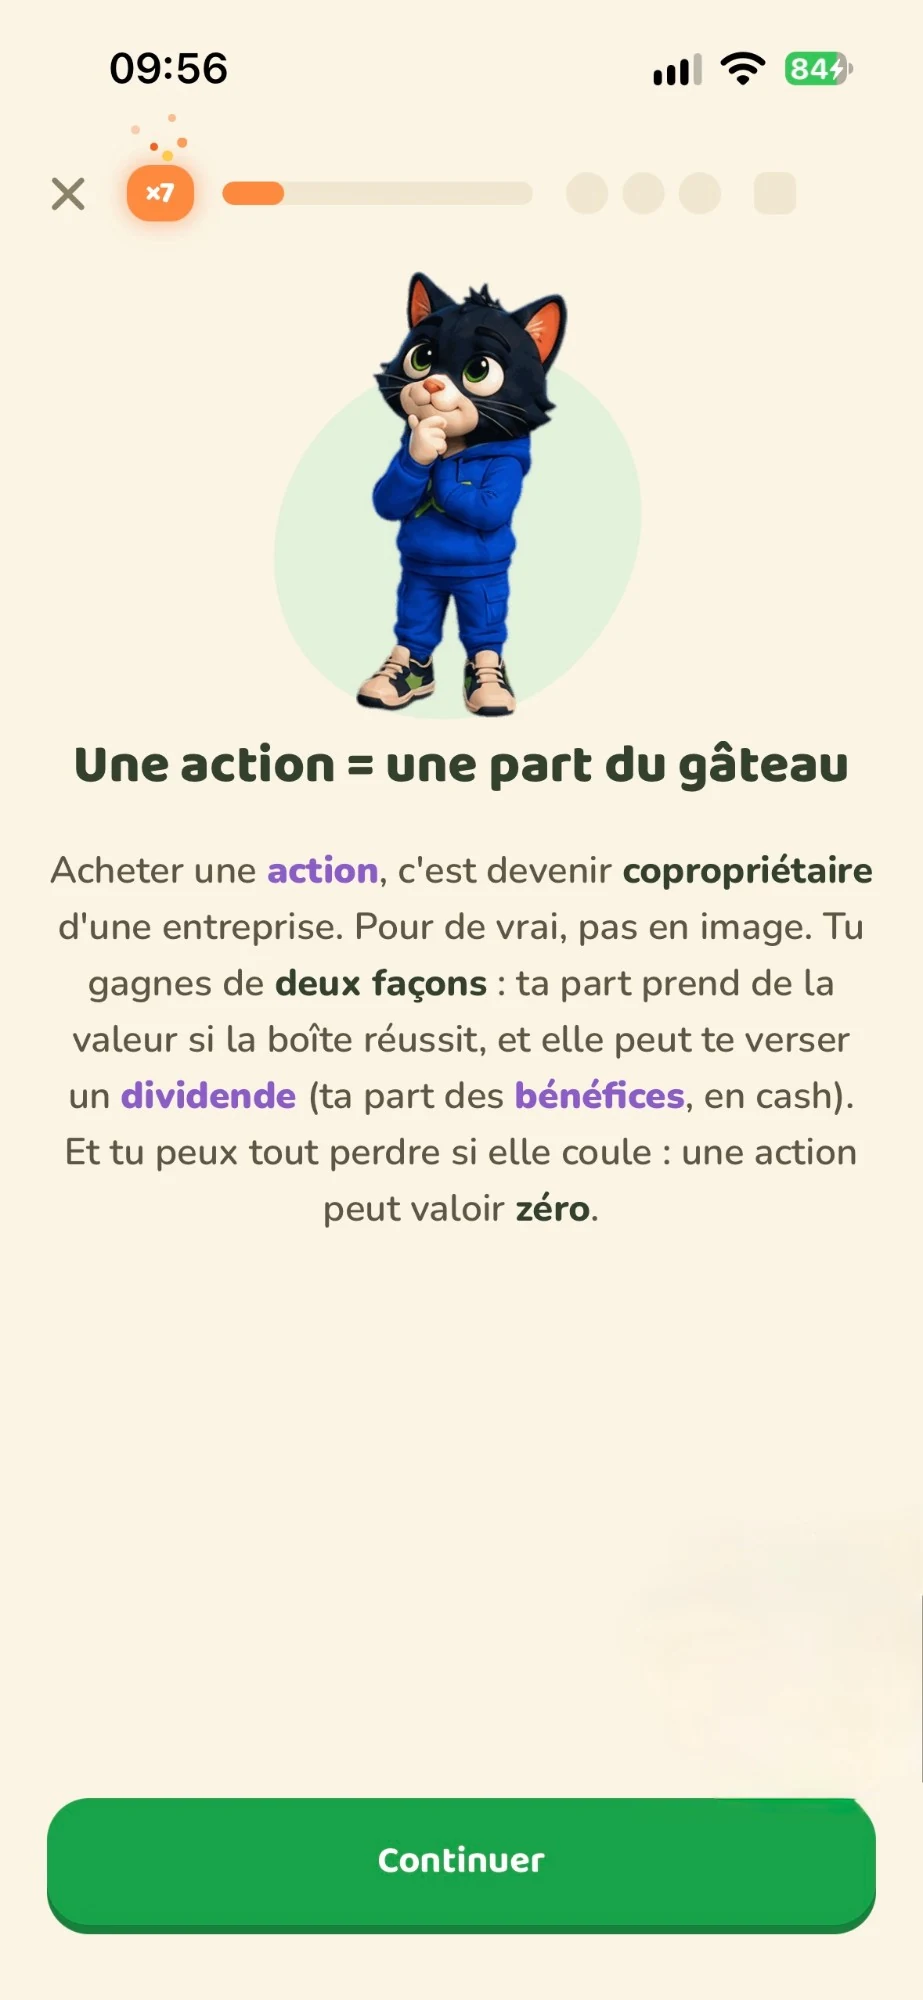
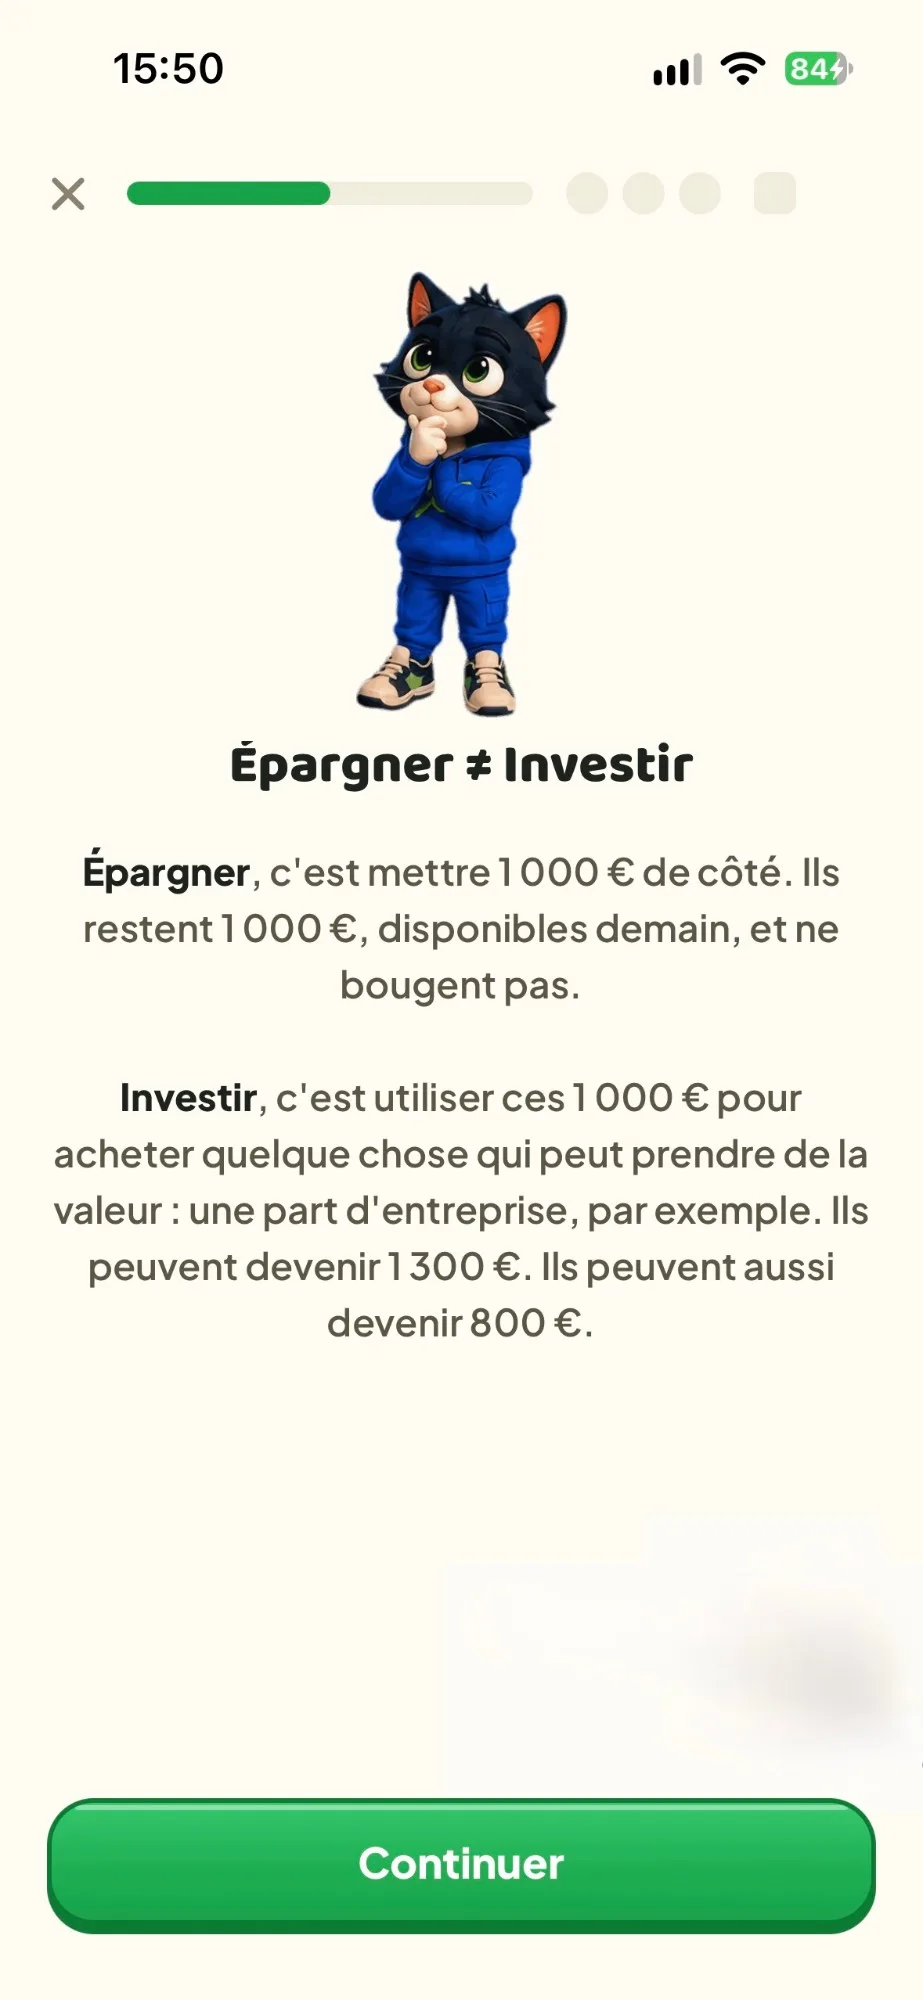
Site à jour avec l'app (4 oct.) : leçon en 4 étapes, nouvelles captures, parcours 33 leçons, ETF, Premium, pattes, coffre, Bezos et Jordan

diff --git a/index.html b/index.html
@@ -325,7 +325,7 @@ section{position:relative}
 .pricing{display:grid;grid-template-columns:1fr 1.25fr;gap:20px;margin-top:56px;align-items:stretch}
 .plan{border-radius:28px;padding:clamp(24px,3vw,36px);background:var(--card);border:1.5px solid #EFE4CB;box-shadow:0 6px 0 var(--edge);display:flex;flex-direction:column}
 .plan h3{font-size:34px}
-.plan .price{font-family:var(--display);font-weight:800;font-size:58px;line-height:1;margin-top:10px;font-variant-numeric:tabular-nums}
+.plan .price{font-family:var(--display);font-weight:800;font-size:58px;line-height:1;margin-top:10px;font-variant-numeric:tabular-nums;white-space:nowrap}
 .plan .price small{font-size:20px;color:var(--muted);font-weight:700}
 .plan ul{list-style:none;margin:22px 0 0;padding:0;display:grid;gap:10px}
 .plan li{display:flex;gap:10px;align-items:flex-start;font-size:16px}
@@ -422,8 +422,8 @@ footer .legal{flex-basis:100%;border-top:1px solid #214A32;padding-top:20px;font
 
     <div class="float" data-depth="1.4" data-speed="-0.5" style="left:4%;top:22%;width:clamp(46px,6vw,86px)"><img src="img/coin.webp" alt=""></div>
     <div class="float" data-depth="0.8" data-speed="-0.25" style="left:13%;top:62%;width:clamp(40px,4.6vw,66px)"><img src="img/star.webp" alt=""></div>
-    <div class="float" data-depth="1.1" data-speed="-0.6" style="right:5%;top:16%;width:clamp(60px,8vw,120px)"><img src="img/chest.webp" alt=""></div>
-    <div class="float" data-depth="0.6" data-speed="-0.35" style="right:14%;top:64%;width:clamp(44px,5.4vw,78px)"><img src="img/cup-or.webp" alt=""></div>
+    <div class="float" data-depth="1.1" data-speed="-0.6" style="right:5%;top:16%;width:clamp(60px,8vw,120px)"><img src="img/chest-epique.webp" alt=""></div>
+    <div class="float" data-depth="0.6" data-speed="-0.35" style="right:14%;top:64%;width:clamp(44px,5.4vw,78px)"><img src="img/paw-or.webp" alt=""></div>
     <div class="float" data-depth="1.7" data-speed="-0.7" style="left:30%;top:4%;width:clamp(30px,3.4vw,50px)"><img src="img/coin.webp" alt=""></div>
     <div class="float" data-depth="1.2" data-speed="-0.45" style="right:30%;top:2%;width:clamp(28px,3vw,44px)"><img src="img/star.webp" alt=""></div>
 
@@ -486,23 +486,21 @@ footer .legal{flex-basis:100%;border-top:1px solid #214A32;padding-top:20px;font
   <div class="lesson-inner">
     <div class="lesson-text">
       <div class="steps" id="steps">
-        <div class="step on"><span class="num">1 / 5</span><h3>Une notion. Cinq minutes.</h3><p>Chaque leçon attaque une seule idée, avec un exemple chiffré du début à la fin. Tu la finis dans le bus.</p></div>
-        <div class="step"><span class="num">2 / 5</span><h3>Tu devines avant de savoir.</h3><p>On te fait deviner le chiffre avant de le montrer. C'est l'écart avec ce que tu croyais qui te reste en tête.</p></div>
-        <div class="step"><span class="num">3 / 5</span><h3>Le quiz qui s'embrase.</h3><p>Enchaîne les bonnes réponses : à ×3, ton combo prend feu. Une erreur, et il retombe à zéro.</p></div>
-        <div class="step"><span class="num">4 / 5</span><h3>Un défi pour finir.</h3><p>Glisser, trier, relier : un mini-jeu pour vérifier que c'est vraiment acquis.</p></div>
-        <div class="step"><span class="num">5 / 5</span><h3>Et tu montes de niveau.</h3><p>XP, étoiles, pièces, trophées. Nesto garde la trace de tout ce que tu as compris.</p></div>
+        <div class="step on"><span class="num">1 / 4</span><h3>Une notion. Cinq minutes.</h3><p>Chaque leçon attaque une seule idée, avec un exemple chiffré du début à la fin. Tu la finis dans le bus.</p></div>
+        <div class="step"><span class="num">2 / 4</span><h3>Enchaîne les bonnes réponses.</h3><p>Trois questions sur ce que tu viens de lire. Chaque bonne réponse fait grimper ton combo, et une erreur le remet à zéro.</p></div>
+        <div class="step"><span class="num">3 / 4</span><h3>Un défi pour finir.</h3><p>Glisser, trier, relier : un mini-jeu pour vérifier que c'est vraiment acquis.</p></div>
+        <div class="step"><span class="num">4 / 4</span><h3>Et tu montes de niveau.</h3><p>XP, étoiles, pièces. Sur la route, des bonus à choisir. Nesto garde la trace de tout ce que tu as compris.</p></div>
       </div>
-      <div class="dots" id="dots" aria-hidden="true"><i class="on"></i><i></i><i></i><i></i><i></i></div>
+      <div class="dots" id="dots" aria-hidden="true"><i class="on"></i><i></i><i></i><i></i></div>
     </div>
 
     <div class="phone-wrap" id="phoneWrap">
       <div class="phone" id="phone">
         <div class="screen-area">
-          <img class="screen shot on" src="img/app-notion.webp" alt="Écran de leçon CRESKO : une action, une part du gâteau" width="923" height="2000">
-          <img class="screen shot" src="img/app-deviner.webp" alt="Écran CRESKO : carte à deviner sur l'inflation" width="923" height="2000" loading="lazy">
-          <img class="screen shot" src="img/app-quiz.webp" alt="Écran CRESKO : quiz avec le combo ×3" width="603" height="1311" loading="lazy">
+          <img class="screen shot on" src="img/app-notion.webp" alt="Écran de leçon CRESKO : épargner ou investir, avec 1 000 €" width="923" height="2000">
+          <img class="screen shot" src="img/app-quiz.webp" alt="Écran CRESKO : question du quiz, combo ×4" width="923" height="2000" loading="lazy">
           <img class="screen shot" src="img/app-defi.webp" alt="Écran CRESKO : le défi, glisser le bon mot dans chaque trou" width="923" height="2000" loading="lazy">
-          <img class="screen shot" src="img/app-fin.webp" alt="Écran CRESKO : fin de leçon, +80 XP" width="923" height="2000" loading="lazy">
+          <img class="screen shot" src="img/app-fin.webp" alt="Écran CRESKO : fin de leçon, +95 XP" width="923" height="2000" loading="lazy">
         </div>
       </div>
     </div>
@@ -523,7 +521,7 @@ footer .legal{flex-basis:100%;border-top:1px solid #214A32;padding-top:20px;font
       <article class="tile t-path" data-reveal>
         <span class="kicker">Le parcours</span>
         <h3>6 chapitres, de zéro à expert.</h3>
-        <p class="d">29 leçons dans l'ordre où tu en as besoin : d'abord comprendre, ensuite te défendre, puis passer à l'action.</p>
+        <p class="d">33 leçons dans l'ordre où tu en as besoin : d'abord comprendre, ensuite te défendre, puis passer à l'action.</p>
         <div class="path-box" id="pathBox">
           <svg viewBox="0 0 1000 300" preserveAspectRatio="xMidYMid meet" aria-hidden="true">
             <path id="trailBg" d="M40 210 C 150 210, 170 80, 230 80 S 330 220, 420 220 S 540 70, 610 70 S 720 230, 800 220 S 910 90, 960 90" fill="none" stroke="#C8E0BD" stroke-width="10" stroke-linecap="round" stroke-dasharray="2 22"/>
@@ -558,7 +556,7 @@ footer .legal{flex-basis:100%;border-top:1px solid #214A32;padding-top:20px;font
       <article class="tile t-market" data-reveal>
         <span class="kicker">Les marchés</span>
         <h3>Les vrais cours, zéro risque.</h3>
-        <p class="d">Suis les actions et les cryptos en direct, puis entraîne-toi avec un portefeuille virtuel : de l'argent fictif, de vraies décisions.</p>
+        <p class="d">Suis les actions et les ETF en direct, puis entraîne-toi avec un portefeuille virtuel : de l'argent fictif, de vraies décisions.</p>
         <div class="chart">
           <div class="chart-top"><span class="tk">Portefeuille virtuel</span><span class="live"><i></i>Cours réels</span></div>
           <svg viewBox="0 0 400 150" aria-hidden="true">
@@ -580,6 +578,8 @@ footer .legal{flex-basis:100%;border-top:1px solid #214A32;padding-top:20px;font
           <div class="lcard" style="background:#1A9A8E"><span class="lab">Légende</span><img class="lpic" src="img/leg-buffett.webp" alt="Warren Buffett, version dessinée de l'app"><div class="ltxt"><div class="nm">Warren Buffett</div><div class="hk">Sa première action, il l'achète à 11 ans.</div></div></div>
           <div class="lcard" style="background:#8B5CC9"><span class="lab">Légende</span><img class="lpic" src="img/leg-jobs.webp" alt="Steve Jobs, version dessinée de l'app"><div class="ltxt"><div class="nm">Steve Jobs</div><div class="hk">Viré de la boîte qu'il a fondée, puis revenu la sauver.</div></div></div>
           <div class="lcard" style="background:#2E86C1"><span class="lab">Légende</span><img class="lpic" src="img/leg-niel.webp" alt="Xavier Niel, version dessinée de l'app"><div class="ltxt"><div class="nm">Xavier Niel</div><div class="hk">Il lance Free, puis casse les prix du mobile en France.</div></div></div>
+          <div class="lcard" style="background:#12946A"><span class="lab">Légende</span><img class="lpic" src="img/leg-bezos.webp" alt="Jeff Bezos, version dessinée de l'app"><div class="ltxt"><div class="nm">Jeff Bezos</div><div class="hk">Son action a perdu 90 %. Il n'a rien changé.</div></div></div>
+          <div class="lcard" style="background:#D9573B"><span class="lab">Légende</span><img class="lpic" src="img/leg-jordan.webp" alt="Michael Jordan, version dessinée de l'app"><div class="ltxt"><div class="nm">Michael Jordan</div><div class="hk">Il a gagné plus après le basket que pendant.</div></div></div>
         </div>
         <p class="d" style="font-size:15px">Puis un Vrai ou Bluff pour voir si t'as suivi.</p>
       </article>
@@ -592,7 +592,7 @@ footer .legal{flex-basis:100%;border-top:1px solid #214A32;padding-top:20px;font
           <svg viewBox="0 0 24 24" aria-hidden="true"><path fill="#F97C50" d="M12.6 2.2c.4 3-1.2 4.6-2.6 6.1C8.6 9.8 7 11.4 7 14.3A5 5 0 0 0 12 19.5a5 5 0 0 0 5-5.2c0-1.7-.7-3-1.5-4 .1 1.3-.4 2.3-1.3 2.8.4-3.2-.5-7.5-1.6-10.9z"/><path fill="#FFC94A" d="M12 12.5c-1.3 1.2-2 2.2-2 3.4a2 2 0 0 0 4 0c0-1.2-.8-2.2-2-3.4z"/></svg>
           <span class="n" id="streakN">30</span><span class="u">jours<br>de série</span>
         </div>
-        <div class="cups" id="cups"><img src="img/cup-bronze.webp" alt="Trophée bronze"><img src="img/cup-argent.webp" alt="Trophée argent"><img src="img/cup-or.webp" alt="Trophée or"><img src="img/cup-diamant.webp" alt="Trophée diamant"></div>
+        <div class="cups" id="cups"><img src="img/paw-bronze.webp" alt="Trophée bronze"><img src="img/paw-argent.webp" alt="Trophée argent"><img src="img/paw-or.webp" alt="Trophée or"><img src="img/paw-diamant.webp" alt="Trophée diamant"></div>
         <p class="d" style="font-size:15px">Missions du jour, coffres, ligue du mois entre amis.</p>
       </article>
 
@@ -656,7 +656,7 @@ footer .legal{flex-basis:100%;border-top:1px solid #214A32;padding-top:20px;font
         <h3>Gratuit</h3>
         <div class="price">0 €</div>
         <ul>
-          <li><svg viewBox="0 0 24 24"><circle cx="12" cy="12" r="11" fill="#E4F1DC"/><path d="M7 12.5l3.2 3.2L17 9" fill="none" stroke="#16a34a" stroke-width="2.8" stroke-linecap="round" stroke-linejoin="round"/></svg>Les 23 leçons de base</li>
+          <li><svg viewBox="0 0 24 24"><circle cx="12" cy="12" r="11" fill="#E4F1DC"/><path d="M7 12.5l3.2 3.2L17 9" fill="none" stroke="#16a34a" stroke-width="2.8" stroke-linecap="round" stroke-linejoin="round"/></svg>Les 24 leçons de base</li>
           <li><svg viewBox="0 0 24 24"><circle cx="12" cy="12" r="11" fill="#E4F1DC"/><path d="M7 12.5l3.2 3.2L17 9" fill="none" stroke="#16a34a" stroke-width="2.8" stroke-linecap="round" stroke-linejoin="round"/></svg>1 leçon par jour</li>
           <li><svg viewBox="0 0 24 24"><circle cx="12" cy="12" r="11" fill="#E4F1DC"/><path d="M7 12.5l3.2 3.2L17 9" fill="none" stroke="#16a34a" stroke-width="2.8" stroke-linecap="round" stroke-linejoin="round"/></svg>Ta première Légende offerte</li>
           <li><svg viewBox="0 0 24 24"><circle cx="12" cy="12" r="11" fill="#E4F1DC"/><path d="M7 12.5l3.2 3.2L17 9" fill="none" stroke="#16a34a" stroke-width="2.8" stroke-linecap="round" stroke-linejoin="round"/></svg>Le Journal et le quiz du jour</li>
@@ -680,12 +680,14 @@ footer .legal{flex-basis:100%;border-top:1px solid #214A32;padding-top:20px;font
         <ul>
           <li><svg viewBox="0 0 24 24"><circle cx="12" cy="12" r="11" fill="#FFC94A"/><path d="M7 12.5l3.2 3.2L17 9" fill="none" stroke="#3D2C00" stroke-width="2.8" stroke-linecap="round" stroke-linejoin="round"/></svg>4 leçons par jour</li>
           <li><svg viewBox="0 0 24 24"><circle cx="12" cy="12" r="11" fill="#FFC94A"/><path d="M7 12.5l3.2 3.2L17 9" fill="none" stroke="#3D2C00" stroke-width="2.8" stroke-linecap="round" stroke-linejoin="round"/></svg>Toutes les Légendes</li>
-          <li><svg viewBox="0 0 24 24"><circle cx="12" cy="12" r="11" fill="#FFC94A"/><path d="M7 12.5l3.2 3.2L17 9" fill="none" stroke="#3D2C00" stroke-width="2.8" stroke-linecap="round" stroke-linejoin="round"/></svg>6 leçons exclusives</li>
+          <li><svg viewBox="0 0 24 24"><circle cx="12" cy="12" r="11" fill="#FFC94A"/><path d="M7 12.5l3.2 3.2L17 9" fill="none" stroke="#3D2C00" stroke-width="2.8" stroke-linecap="round" stroke-linejoin="round"/></svg>9 leçons exclusives</li>
+          <li><svg viewBox="0 0 24 24"><circle cx="12" cy="12" r="11" fill="#FFC94A"/><path d="M7 12.5l3.2 3.2L17 9" fill="none" stroke="#3D2C00" stroke-width="2.8" stroke-linecap="round" stroke-linejoin="round"/></svg>4 leçons bonus</li>
           <li><svg viewBox="0 0 24 24"><circle cx="12" cy="12" r="11" fill="#FFC94A"/><path d="M7 12.5l3.2 3.2L17 9" fill="none" stroke="#3D2C00" stroke-width="2.8" stroke-linecap="round" stroke-linejoin="round"/></svg>Le portefeuille virtuel</li>
           <li><svg viewBox="0 0 24 24"><circle cx="12" cy="12" r="11" fill="#FFC94A"/><path d="M7 12.5l3.2 3.2L17 9" fill="none" stroke="#3D2C00" stroke-width="2.8" stroke-linecap="round" stroke-linejoin="round"/></svg>La ligue du mois</li>
           <li><svg viewBox="0 0 24 24"><circle cx="12" cy="12" r="11" fill="#FFC94A"/><path d="M7 12.5l3.2 3.2L17 9" fill="none" stroke="#3D2C00" stroke-width="2.8" stroke-linecap="round" stroke-linejoin="round"/></svg>Les gels de série</li>
           <li><svg viewBox="0 0 24 24"><circle cx="12" cy="12" r="11" fill="#FFC94A"/><path d="M7 12.5l3.2 3.2L17 9" fill="none" stroke="#3D2C00" stroke-width="2.8" stroke-linecap="round" stroke-linejoin="round"/></svg>Le Bilan final</li>
-          <li><svg viewBox="0 0 24 24"><circle cx="12" cy="12" r="11" fill="#FFC94A"/><path d="M7 12.5l3.2 3.2L17 9" fill="none" stroke="#3D2C00" stroke-width="2.8" stroke-linecap="round" stroke-linejoin="round"/></svg>Le Comparateur</li>
+          <li><svg viewBox="0 0 24 24"><circle cx="12" cy="12" r="11" fill="#FFC94A"/><path d="M7 12.5l3.2 3.2L17 9" fill="none" stroke="#3D2C00" stroke-width="2.8" stroke-linecap="round" stroke-linejoin="round"/></svg>La révision du Dico chaque jour</li>
+          <li><svg viewBox="0 0 24 24"><circle cx="12" cy="12" r="11" fill="#FFC94A"/><path d="M7 12.5l3.2 3.2L17 9" fill="none" stroke="#3D2C00" stroke-width="2.8" stroke-linecap="round" stroke-linejoin="round"/></svg>Ton code parrain pour 2 jeunes</li>
         </ul>
         <p class="muted" style="margin-top:auto;padding-top:20px;font-size:14px">Abonnement mensuel sans engagement, résiliable à tout moment depuis ton iPhone.</p>
       </div>
@@ -964,13 +966,14 @@ footer .legal{flex-basis:100%;border-top:1px solid #214A32;padding-top:20px;font
     stepsEls.forEach(function(el,k){ el.classList.toggle('on', k===i); });
     screens.forEach(function(el,k){ el.classList.toggle('on', k===i); });
     dots.forEach(function(el,k){ el.classList.toggle('on', k===i); });
-    if (i === 4 && !reduced){ var r = phone.getBoundingClientRect(); burst(r.left+r.width/2, r.top+r.height*.35, 14); }
+    var last = stepsEls.length - 1;
+    if (i === last && !reduced){ var r = phone.getBoundingClientRect(); burst(r.left+r.width/2, r.top+r.height*.35, 14); }
   }
   lessonSec.classList.add('pin');
   ScrollTrigger.create({
-    trigger: lessonSec, start:'top top', end: function(){ return '+=' + window.innerHeight*4; },
+    trigger: lessonSec, start:'top top', end: function(){ return '+=' + window.innerHeight*(stepsEls.length-1); },
     pin:true, anticipatePin:1,
-    onUpdate:function(s){ setStep(Math.min(4, Math.floor(s.progress*5))); },
+    onUpdate:function(s){ setStep(Math.min(stepsEls.length-1, Math.floor(s.progress*stepsEls.length))); },
     onRefreshInit: fitPhone
   });
 
